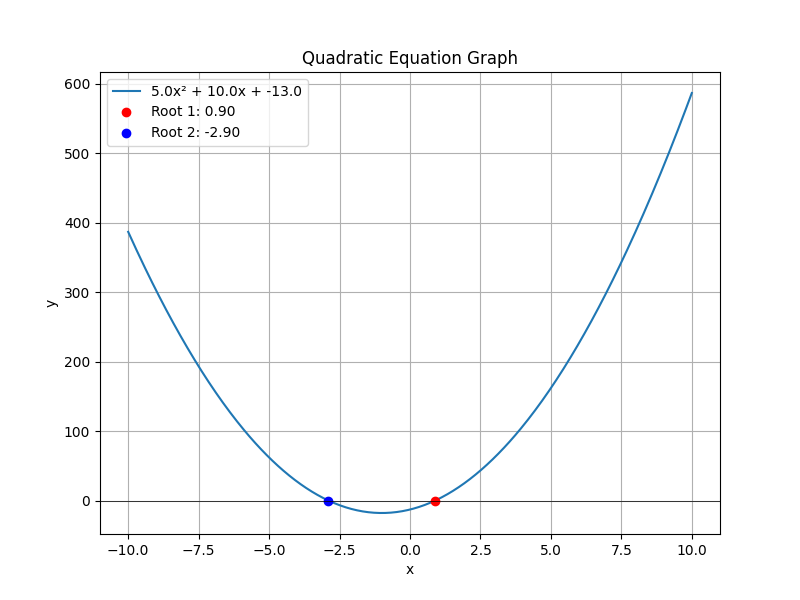
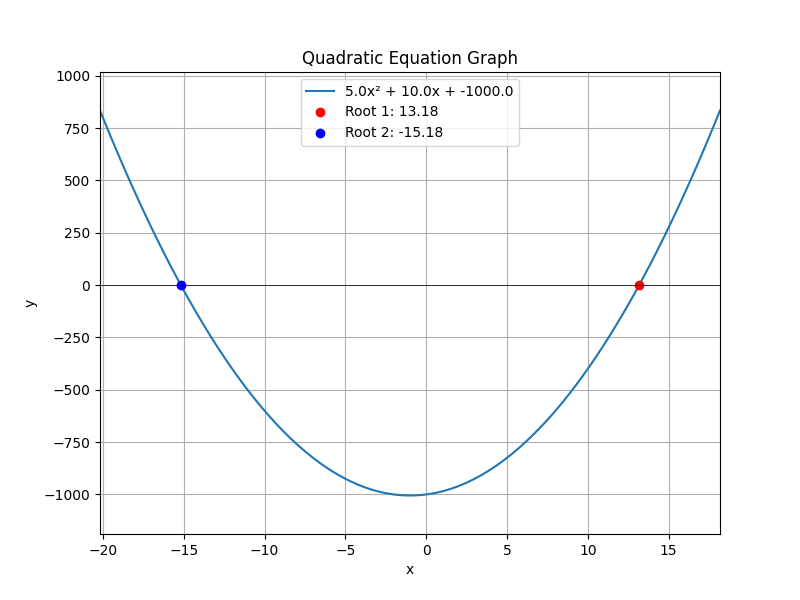
improve plot_quadratic

diff --git a/main.py b/main.py
@@ -22,9 +22,24 @@ def solve_quadratic(a, b, c):
 
 
 def plot_quadratic(a, b, c, roots):
-    # Generate x values
-    x = np.linspace(-10, 10, 400)
+    # Dynamically determine the x range
+    if roots[0] is not None:
+        # Use the roots to center the plot
+        x_min = min(roots) - 5
+        x_max = max(roots) + 5
+    else:
+        # If no real roots, center around the vertex
+        vertex_x = -b / (2 * a)
+        x_min = vertex_x - 5
+        x_max = vertex_x + 5
+
+    # Generate x values dynamically
+    x = np.linspace(x_min, x_max, 400)
     y = a * x ** 2 + b * x + c
+
+    # Dynamically adjust y range
+    y_min, y_max = min(y), max(y)
+    padding = abs(y_max - y_min) * 0.1  # Add 10% padding
 
     plt.figure(figsize=(8, 6))
     plt.plot(x, y, label=f"{a}x² + {b}x + {c}")
@@ -33,12 +48,17 @@ def plot_quadratic(a, b, c, roots):
         plt.plot(roots[0], 0, 'ro', label=f"Root 1: {roots[0]:.2f}")
         plt.plot(roots[1], 0, 'bo', label=f"Root 2: {roots[1]:.2f}")
 
+    # Draw horizontal line for y=0
     plt.axhline(0, color='black', linewidth=0.5)
     plt.title("Quadratic Equation Graph")
     plt.xlabel("x")
     plt.ylabel("y")
     plt.legend()
     plt.grid(True)
+
+    # Adjust the plot range
+    plt.ylim(y_min - padding, y_max + padding)
+    plt.xlim(x_min, x_max)
 
     # Save graph as an image file
     plt.savefig("quadratic_graph.png")
